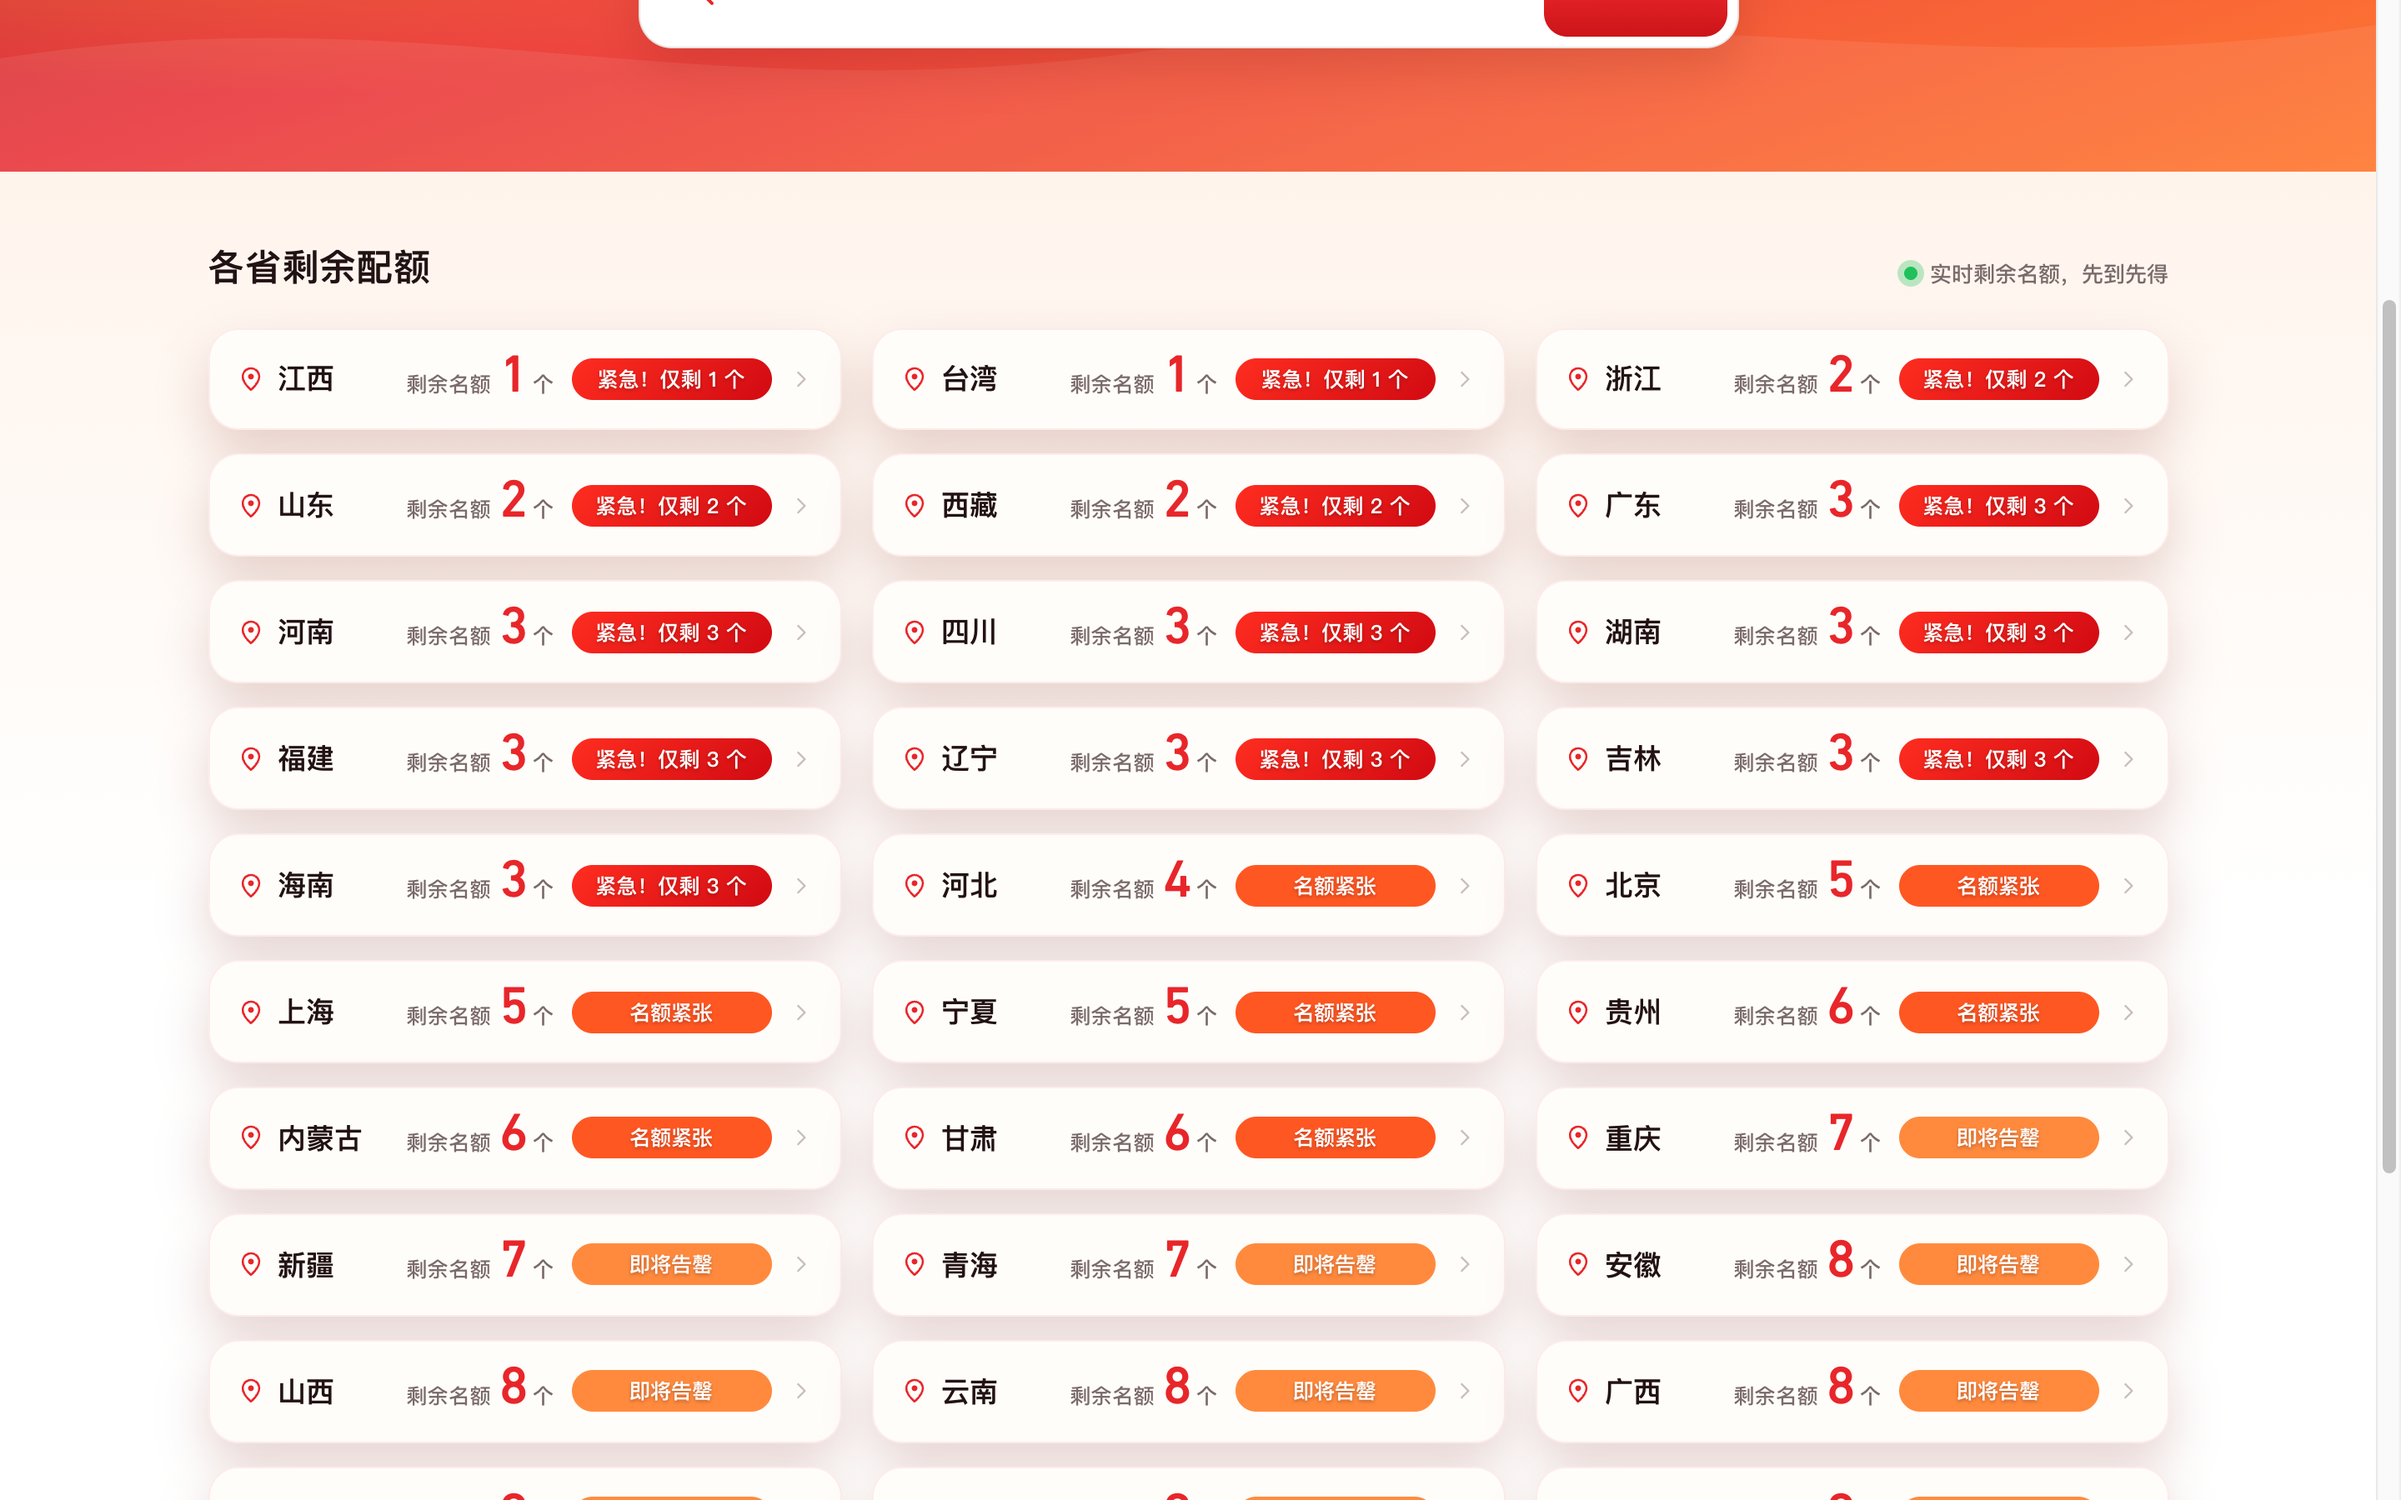
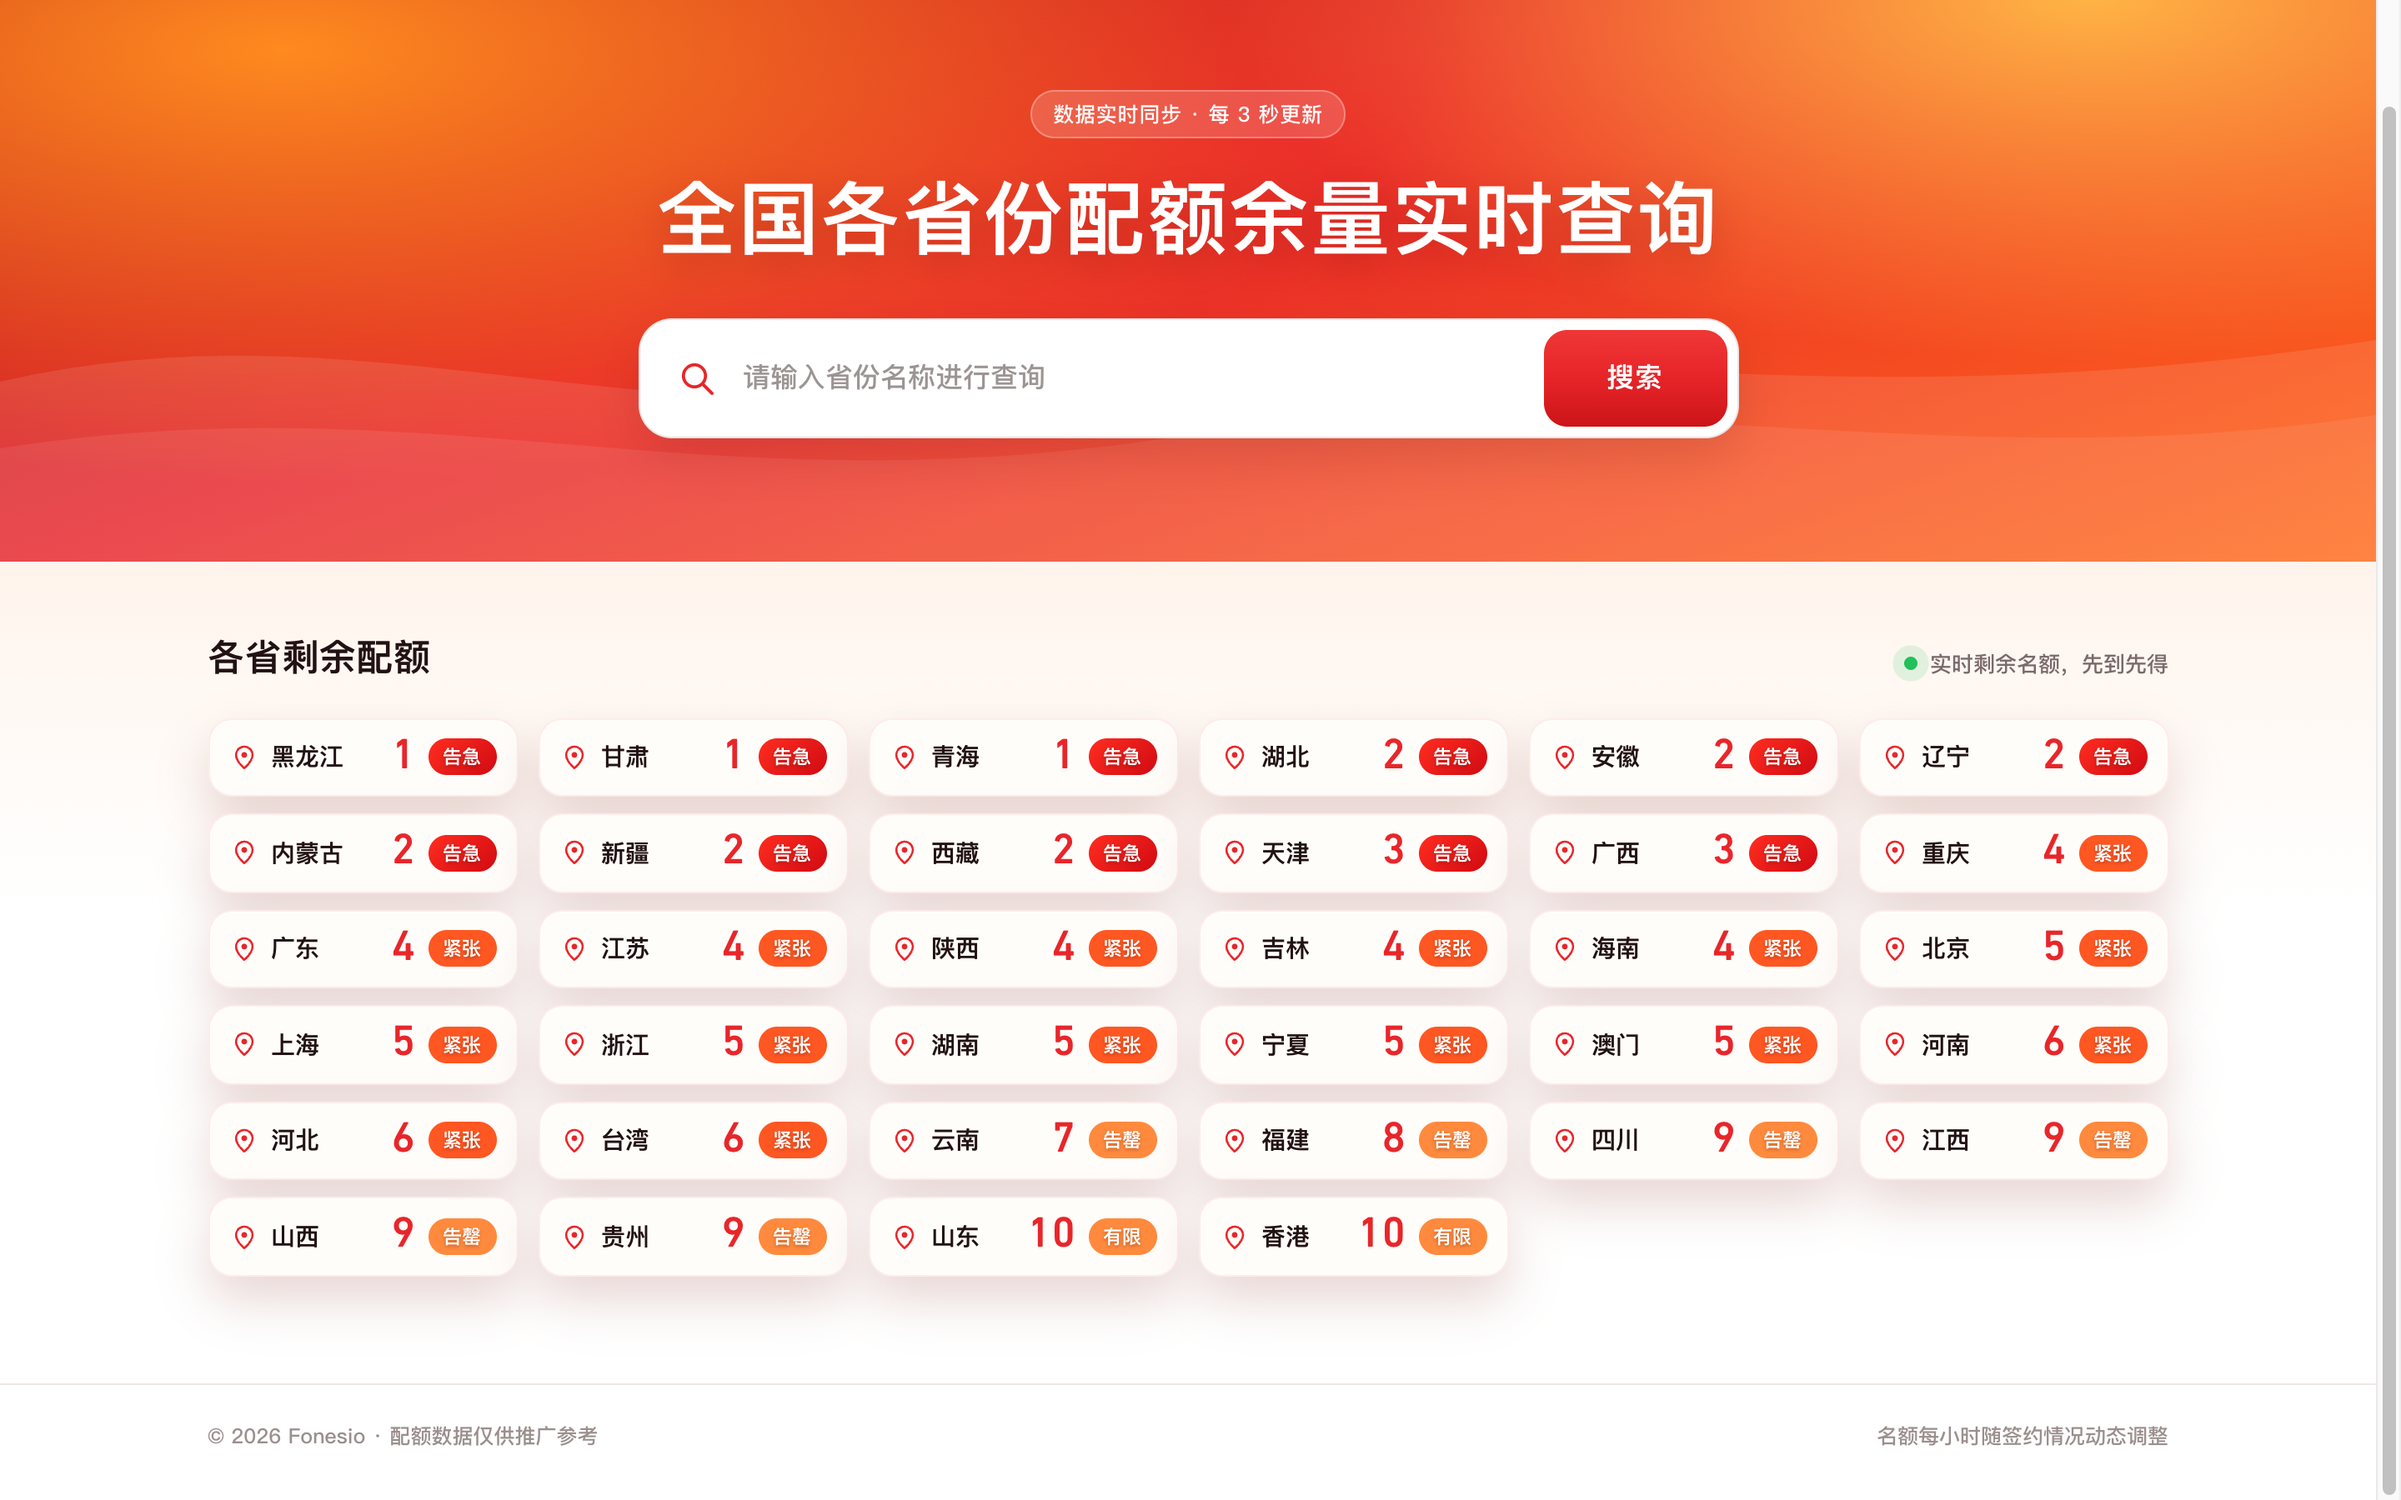
改为每行六条紧凑排布，胶囊按密度切换长短文案，静态资源版本号提升

diff --git a/assets/css/style.css b/assets/css/style.css
@@ -231,18 +231,18 @@ a { text-decoration: none; color: inherit; }
 
 .cards {
   display: grid;
-  grid-template-columns: repeat(3, minmax(0, 1fr));
-  gap: 14px 18px;
+  grid-template-columns: repeat(6, minmax(0, 1fr));
+  gap: 10px 12px;
 }
 
 .card {
   position: relative;
   display: flex;
   align-items: center;
-  gap: 10px;
+  gap: 7px;
   background: var(--card);
-  border-radius: var(--radius-card);
-  padding: 13px 16px;
+  border-radius: 14px;
+  padding: 9px 12px;
   text-align: left;
   box-shadow: var(--shadow-card);
   border: 1px solid rgba(232, 38, 42, .08);
@@ -306,9 +306,11 @@ a { text-decoration: none; color: inherit; }
 
 .card__name {
   margin: 0;
-  font-size: 17px;
+  font-size: 14.5px;
   font-weight: 700;
   white-space: nowrap;
+  overflow: hidden;
+  text-overflow: ellipsis;
 }
 
 /* 中部：剩余名额 + DIN 数字 */
@@ -320,6 +322,7 @@ a { text-decoration: none; color: inherit; }
 }
 
 .card__label {
+  display: none;
   margin: 0;
   font-size: 12.5px;
   color: var(--muted);
@@ -332,8 +335,8 @@ a { text-decoration: none; color: inherit; }
   align-items: baseline;
   font-family: "DIN Next Digits", "DIN Next LT Pro", "PingFang SC", sans-serif;
   font-weight: 500;
-  font-size: 32px;
-  line-height: 1.06;
+  font-size: 26px;
+  line-height: 1.04;
   color: var(--red);
   letter-spacing: .5px;
   transition: color .2s ease;
@@ -357,6 +360,7 @@ a { text-decoration: none; color: inherit; }
 }
 
 .card__unit {
+  display: none;
   font-family: "PingFang SC", "Hiragino Sans GB", sans-serif;
   font-size: 12.5px;
   font-weight: 600;
@@ -366,7 +370,7 @@ a { text-decoration: none; color: inherit; }
 
 /* 右侧：箭头 */
 .card__chevron {
-  display: grid;
+  display: none;
   place-items: center;
   flex: 0 0 auto;
   color: #c9bdbd;
@@ -378,17 +382,25 @@ a { text-decoration: none; color: inherit; }
   isolation: isolate;
   display: inline-block;
   flex: 0 0 auto;
-  min-width: 120px;
   text-align: center;
   margin: 0;
-  padding: 4px 10px;
+  padding: 3px 9px;
   border-radius: 999px;
-  font-size: 12.5px;
+  font-size: 11.5px;
   font-weight: 800;
   color: #fff;
   text-shadow: 0 1px 2px rgba(60, 6, 4, .32);
   background: #ef5350;
   white-space: nowrap;
+}
+
+/* 密集六列：用两字短标签；列数减少后恢复完整文案 */
+.tag__long { display: none; }
+.tag__short { display: inline; }
+
+@media (max-width: 1180px) {
+  .tag__long { display: inline; }
+  .tag__short { display: none; }
 }
 
 /* 悬停 / 命中时：标签内部自左向右快速流光，文字始终在流光之上 */
@@ -506,19 +518,31 @@ a { text-decoration: none; color: inherit; }
 }
 
 /* ---------- responsive ---------- */
-@media (max-width: 1080px) {
-  .cards { grid-template-columns: repeat(2, minmax(0, 1fr)); }
+@media (max-width: 1180px) {
+  .cards { grid-template-columns: repeat(4, minmax(0, 1fr)); gap: 12px 14px; }
+}
+
+@media (max-width: 980px) {
+  .cards { grid-template-columns: repeat(3, minmax(0, 1fr)); }
+  .card { padding: 11px 14px; gap: 9px; }
+  .card__name { font-size: 16px; }
+  .card__count { font-size: 30px; }
+  .card__label { display: inline; }
+  .card__unit { display: inline; }
+  .card__chevron { display: grid; }
+  .tag { font-size: 12.5px; padding: 4px 10px; }
 }
 
 @media (max-width: 860px) {
   .shell { padding: 0 20px; }
   .hero { padding: 42px 0 58px; }
   .hero__title { font-size: 34px; }
-  .cards { grid-template-columns: repeat(2, minmax(0, 1fr)); gap: 12px; }
-  .card { padding: 11px 13px; gap: 8px; }
-  .card__count { font-size: 28px; }
-  .card__name { font-size: 16px; }
+  .cards { grid-template-columns: repeat(2, minmax(0, 1fr)); gap: 10px; }
+  .card { padding: 10px 12px; gap: 8px; }
+  .card__count { font-size: 26px; }
+  .card__name { font-size: 15px; }
   .card__label { display: none; }
+  .card__unit { display: inline; }
   .card__chevron { display: none; }
   .search { padding-left: 16px; }
   .search__btn { padding: 0 24px; }

diff --git a/assets/js/app.js b/assets/js/app.js
@@ -37,10 +37,12 @@
   }
 
   function tagFor(count) {
-    if (count <= 3) return { text: "紧急！仅剩 " + count + " 个", cls: "tag--urgent" };
-    if (count <= 6) return { text: "名额紧张", cls: "tag--tight" };
-    if (count <= 9) return { text: "即将告罄", cls: "tag--soon" };
-    return { text: "名额有限", cls: "tag--soon" };
+    if (count <= 3) {
+      return { long: "紧急！仅剩 " + count + " 个", short: "告急", cls: "tag--urgent" };
+    }
+    if (count <= 6) return { long: "名额紧张", short: "紧张", cls: "tag--tight" };
+    if (count <= 9) return { long: "即将告罄", short: "告罄", cls: "tag--soon" };
+    return { long: "名额有限", short: "有限", cls: "tag--soon" };
   }
 
   /** 告罄程度越高，标签流光越快（秒数越小） */
@@ -105,6 +107,12 @@
 
     const tag = document.createElement("span");
     tag.className = "tag";
+    const tagLong = document.createElement("span");
+    tagLong.className = "tag__long";
+    const tagShort = document.createElement("span");
+    tagShort.className = "tag__short";
+    tag.appendChild(tagLong);
+    tag.appendChild(tagShort);
 
     // 右：箭头
     const chevron = document.createElement("span");
@@ -128,7 +136,8 @@
   function paint(state) {
     if (!state.countNode) return;
     const tag = tagFor(state.count);
-    state.tagNode.textContent = tag.text;
+    state.tagNode.querySelector(".tag__long").textContent = tag.long;
+    state.tagNode.querySelector(".tag__short").textContent = tag.short;
     state.tagNode.className = "tag " + tag.cls;
     state.tagNode.style.setProperty("--flow-dur", flowDuration(state.count));
   }

diff --git a/index.html b/index.html
@@ -4,7 +4,7 @@
 <meta charset="UTF-8" />
 <meta name="viewport" content="width=device-width, initial-scale=1" />
 <title>Fonesio · 全国各省份配额余量实时查询</title>
-<link rel="stylesheet" href="assets/css/style.css?v=20261121b" />
+<link rel="stylesheet" href="assets/css/style.css?v=20261121c" />
 </head>
 <body>
 <header class="topbar">
@@ -63,6 +63,6 @@
   </svg>
 </button>
 
-<script src="assets/js/app.js?v=20261121b"></script>
+<script src="assets/js/app.js?v=20261121c"></script>
 </body>
 </html>

diff --git a/README.md b/README.md
@@ -30,7 +30,9 @@ preview.png           当前渲染截图
 - 顶部深红栏：左侧为上传的 `Fonesio 风意逍` 白色字标（assets/img/logo.png），右侧导航已移除
 - 红橙渐变标题区 + 波浪装饰，居中主标题「全国各省份配额余量实时查询」
 - 白色圆角搜索容器（20px 圆角、浅灰描边、72px 高）+ 红色线性放大镜 + 右侧红色圆角「搜索」按钮，按钮内嵌留白；支持省/市/自治区后缀与简写（如「广东」「广东市」）
-- 34 个地区卡片，**三列横条**（左：定位图标+地区名；中：剩余名额+DIN 数字；右：状态胶囊+右箭头），标签定宽 120px 保证内部对齐；按剩余名额升序排列，告急的排前面
+- 34 个地区卡片，**每行 6 条紧凑横条**（定位图标 + 地区名 + DIN 数字 + 两字状态胶囊）；按剩余名额升序排列，告急的排前面
+- 密集模式用两字胶囊（告急/紧张/告罄/有限）；屏幕 ≤1180px 降为 4 列并恢复完整文案与「剩余名额」说明
+- 静态资源带 `?v=` 版本参数：**每次改完 CSS/JS 必须同时提升版本号**，否则 GitHub Pages 的 10 分钟缓存会让改动看不到
 - 卡片字号：省名 17px、说明 12.5px、数字 32px、单位 12.5px、状态标签 12.5px/800
 - 数字使用 **DIN Next LT Pro Medium**（`assets/fonts/din-next-lt-pro-medium-digits.woff2`，仅含 0-9 与 , . 子集，与 ChatShot 同款）
 - 状态标签：`紧急！仅剩 N 个` / `名额紧张` / `即将告罄` / `名额有限`，胶囊 120px 定宽、内边距 4×10
